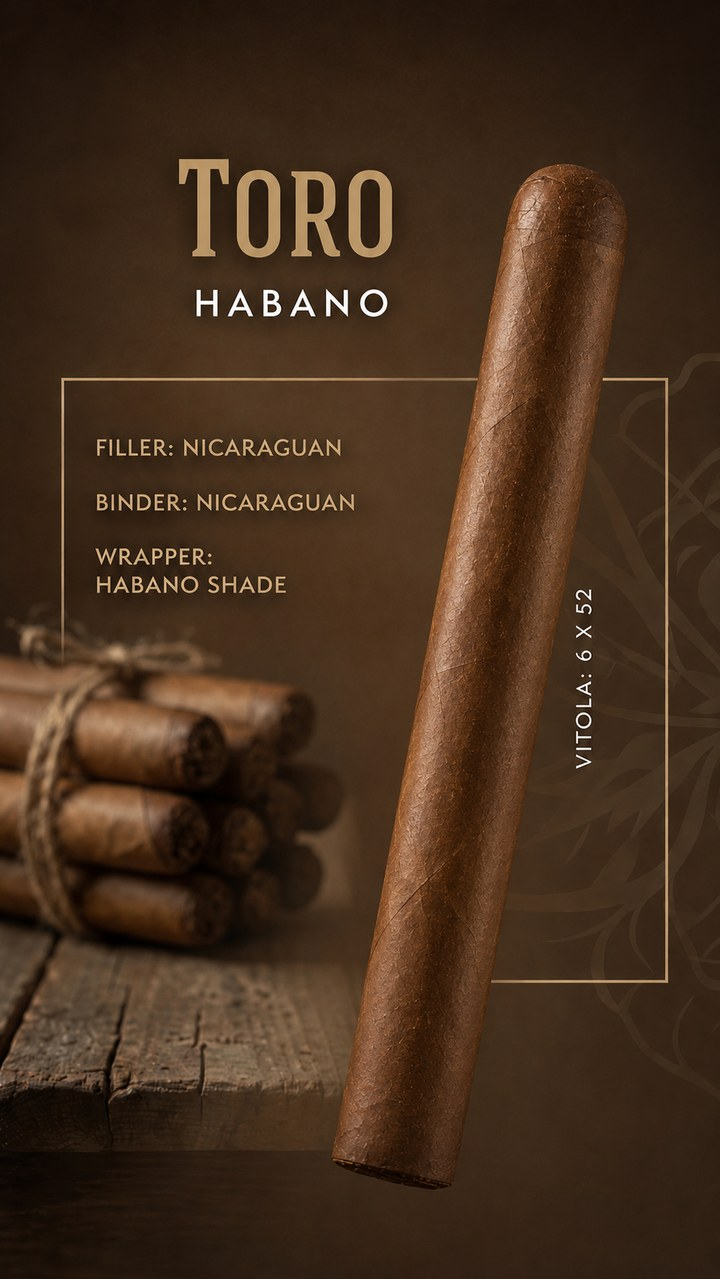
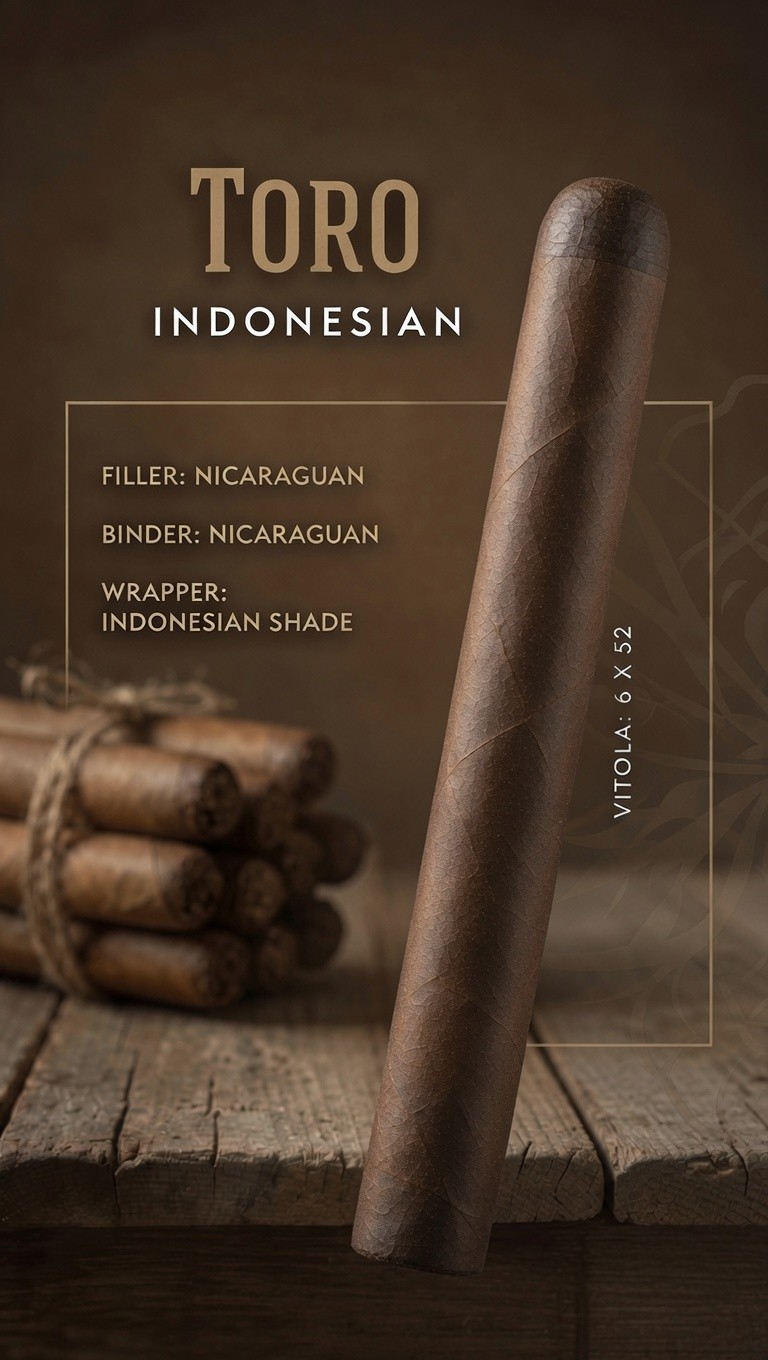
feat: replace 52 Regular artwork with final Toro Indonesian photos
Swaps in the client-supplied spec card and banded-bundle photos, which
now correctly read "TORO INDONESIAN" with an Indonesian Shade wrapper
and 6 x 52 vitola, matching the product's actual name and specs.
Corrected the Length spec from 6.5" back to 6" to match the artwork.

diff --git a/product/toro-habano/index.html b/product/toro-habano/index.html
@@ -30,9 +30,9 @@
   <meta name="twitter:description" content="52 Regular, hand-rolled Nicaraguan cigar with a rich Indonesian wrapper, made in Esteli, Nicaragua by Pita Cigars." />
   <meta name="twitter:image" content="https://jroddvlpr.github.io/Claude_Testing/assets/images/premium-toro-habano.jpg" />
 
-  <link rel="stylesheet" href="../../css/reset.css?v=20260704f" />
-  <link rel="stylesheet" href="../../css/tokens.css?v=20260704f" />
-  <link rel="stylesheet" href="../../css/main.css?v=20260704f" />
+  <link rel="stylesheet" href="../../css/reset.css?v=20260704g" />
+  <link rel="stylesheet" href="../../css/tokens.css?v=20260704g" />
+  <link rel="stylesheet" href="../../css/main.css?v=20260704g" />
 </head>
 <body>
 
@@ -134,8 +134,8 @@
             <div class="pdp-slider" aria-roledescription="carousel" aria-label="52 Regular photos">
               <div class="pdp-slider__viewport">
                 <div class="pdp-slider__track">
-                  <img src="../../assets/images/premium-toro-habano.jpg" alt="52 Regular spec card: Nicaraguan filler and binder, Indonesian wrapper, vitola 6.5 x 52" class="pdp-slider__slide" width="720" height="1279" fetchpriority="high" />
-                  <img src="../../assets/images/premium-toro-habano-lifestyle.jpg" alt="52 Regular bundle banded 6.5 x 52, with a single cigar standing forward" class="pdp-slider__slide" loading="lazy" width="1023" height="1364" />
+                  <img src="../../assets/images/premium-toro-habano.jpg" alt="52 Regular spec card: Nicaraguan filler and binder, Indonesian Shade wrapper, vitola 6 x 52" class="pdp-slider__slide" width="768" height="1360" fetchpriority="high" />
+                  <img src="../../assets/images/premium-toro-habano-lifestyle.jpg" alt="52 Regular bundle banded 6 x 52, with a single cigar standing forward" class="pdp-slider__slide" loading="lazy" width="832" height="1248" />
                 </div>
               </div>
               <div class="pdp-slider__controls">
@@ -185,7 +185,7 @@
             </div>
             <div class="spec">
               <span class="spec__label">Length</span>
-              <span class="spec__value">6.5"</span>
+              <span class="spec__value">6"</span>
             </div>
             <div class="spec">
               <span class="spec__label">Ring Gauge</span>
@@ -342,6 +342,6 @@
     </div>
   </footer>
 
-  <script src="../../js/main.js?v=20260704f" defer></script>
+  <script src="../../js/main.js?v=20260704g" defer></script>
 </body>
 </html>

diff --git a/about/index.html b/about/index.html
@@ -30,9 +30,9 @@
   <meta name="twitter:description" content="The family story behind Pita Cigars, hand-rolled in Miami since 1968." />
   <meta name="twitter:image" content="https://jroddvlpr.github.io/Claude_Testing/assets/images/founder.jpg" />
 
-  <link rel="stylesheet" href="../css/reset.css?v=20260704f" />
-  <link rel="stylesheet" href="../css/tokens.css?v=20260704f" />
-  <link rel="stylesheet" href="../css/main.css?v=20260704f" />
+  <link rel="stylesheet" href="../css/reset.css?v=20260704g" />
+  <link rel="stylesheet" href="../css/tokens.css?v=20260704g" />
+  <link rel="stylesheet" href="../css/main.css?v=20260704g" />
 </head>
 <body>
 
@@ -231,6 +231,6 @@
     </div>
   </footer>
 
-  <script src="../js/main.js?v=20260704f" defer></script>
+  <script src="../js/main.js?v=20260704g" defer></script>
 </body>
 </html>

diff --git a/bundles/index.html b/bundles/index.html
@@ -30,9 +30,9 @@
   <meta name="twitter:description" content="Pita Cigars' traditional short-filler bundles: Babies, Small Fumas, and Gigantes Fumas." />
   <meta name="twitter:image" content="https://jroddvlpr.github.io/Claude_Testing/assets/images/bundle-gigantes.jpg" />
 
-  <link rel="stylesheet" href="../css/reset.css?v=20260704f" />
-  <link rel="stylesheet" href="../css/tokens.css?v=20260704f" />
-  <link rel="stylesheet" href="../css/main.css?v=20260704f" />
+  <link rel="stylesheet" href="../css/reset.css?v=20260704g" />
+  <link rel="stylesheet" href="../css/tokens.css?v=20260704g" />
+  <link rel="stylesheet" href="../css/main.css?v=20260704g" />
 </head>
 <body>
 
@@ -262,6 +262,6 @@
     </div>
   </footer>
 
-  <script src="../js/main.js?v=20260704f" defer></script>
+  <script src="../js/main.js?v=20260704g" defer></script>
 </body>
 </html>

diff --git a/contact/index.html b/contact/index.html
@@ -30,9 +30,9 @@
   <meta name="twitter:description" content="Get in touch with Pita Cigars: visit our Miami factory or send us a message." />
   <meta name="twitter:image" content="https://jroddvlpr.github.io/Claude_Testing/assets/images/hero.jpg" />
 
-  <link rel="stylesheet" href="../css/reset.css?v=20260704f" />
-  <link rel="stylesheet" href="../css/tokens.css?v=20260704f" />
-  <link rel="stylesheet" href="../css/main.css?v=20260704f" />
+  <link rel="stylesheet" href="../css/reset.css?v=20260704g" />
+  <link rel="stylesheet" href="../css/tokens.css?v=20260704g" />
+  <link rel="stylesheet" href="../css/main.css?v=20260704g" />
 </head>
 <body>
 
@@ -216,6 +216,6 @@
     </div>
   </footer>
 
-  <script src="../js/main.js?v=20260704f" defer></script>
+  <script src="../js/main.js?v=20260704g" defer></script>
 </body>
 </html>

diff --git a/index.html b/index.html
@@ -66,9 +66,9 @@
   }
   </script>
 
-  <link rel="stylesheet" href="css/reset.css?v=20260704f" />
-  <link rel="stylesheet" href="css/tokens.css?v=20260704f" />
-  <link rel="stylesheet" href="css/main.css?v=20260704f" />
+  <link rel="stylesheet" href="css/reset.css?v=20260704g" />
+  <link rel="stylesheet" href="css/tokens.css?v=20260704g" />
+  <link rel="stylesheet" href="css/main.css?v=20260704g" />
 </head>
 <body>
 
@@ -588,6 +588,6 @@
     </div>
   </footer>
 
-  <script src="js/main.js?v=20260704f" defer></script>
+  <script src="js/main.js?v=20260704g" defer></script>
 </body>
 </html>

diff --git a/premium-cigars/index.html b/premium-cigars/index.html
@@ -30,9 +30,9 @@
   <meta name="twitter:description" content="Pita Cigars' premium hand-rolled Nicaraguan cigar collection: Torpedo Habano, Torpedo Connecticut, Robusto Sumatra, Robusto Indonesian, Churchill Sumatra, Churchill Oscuro, and 52 Regular." />
   <meta name="twitter:image" content="https://jroddvlpr.github.io/Claude_Testing/assets/images/premium-torpedo-habano.jpg" />
 
-  <link rel="stylesheet" href="../css/reset.css?v=20260704f" />
-  <link rel="stylesheet" href="../css/tokens.css?v=20260704f" />
-  <link rel="stylesheet" href="../css/main.css?v=20260704f" />
+  <link rel="stylesheet" href="../css/reset.css?v=20260704g" />
+  <link rel="stylesheet" href="../css/tokens.css?v=20260704g" />
+  <link rel="stylesheet" href="../css/main.css?v=20260704g" />
 </head>
 <body>
 
@@ -397,6 +397,6 @@
     </div>
   </footer>
 
-  <script src="../js/main.js?v=20260704f" defer></script>
+  <script src="../js/main.js?v=20260704g" defer></script>
 </body>
 </html>

diff --git a/product/churchill-indonesian/index.html b/product/churchill-indonesian/index.html
@@ -30,9 +30,9 @@
   <meta name="twitter:description" content="Churchill Oscuro, hand-rolled Nicaraguan churchill with a dark Indonesian wrapper, made in Esteli, Nicaragua by Pita Cigars." />
   <meta name="twitter:image" content="https://jroddvlpr.github.io/Claude_Testing/assets/images/premium-churchill-indonesian.jpg" />
 
-  <link rel="stylesheet" href="../../css/reset.css?v=20260704f" />
-  <link rel="stylesheet" href="../../css/tokens.css?v=20260704f" />
-  <link rel="stylesheet" href="../../css/main.css?v=20260704f" />
+  <link rel="stylesheet" href="../../css/reset.css?v=20260704g" />
+  <link rel="stylesheet" href="../../css/tokens.css?v=20260704g" />
+  <link rel="stylesheet" href="../../css/main.css?v=20260704g" />
 </head>
 <body>
 
@@ -342,6 +342,6 @@
     </div>
   </footer>
 
-  <script src="../../js/main.js?v=20260704f" defer></script>
+  <script src="../../js/main.js?v=20260704g" defer></script>
 </body>
 </html>

diff --git a/product/churchill-sumatra/index.html b/product/churchill-sumatra/index.html
@@ -30,9 +30,9 @@
   <meta name="twitter:description" content="Churchill Sumatra, hand-rolled Nicaraguan churchill with a Sumatra-shade wrapper, made in Esteli, Nicaragua by Pita Cigars." />
   <meta name="twitter:image" content="https://jroddvlpr.github.io/Claude_Testing/assets/images/premium-churchill-sumatra.jpg" />
 
-  <link rel="stylesheet" href="../../css/reset.css?v=20260704f" />
-  <link rel="stylesheet" href="../../css/tokens.css?v=20260704f" />
-  <link rel="stylesheet" href="../../css/main.css?v=20260704f" />
+  <link rel="stylesheet" href="../../css/reset.css?v=20260704g" />
+  <link rel="stylesheet" href="../../css/tokens.css?v=20260704g" />
+  <link rel="stylesheet" href="../../css/main.css?v=20260704g" />
 </head>
 <body>
 
@@ -342,6 +342,6 @@
     </div>
   </footer>
 
-  <script src="../../js/main.js?v=20260704f" defer></script>
+  <script src="../../js/main.js?v=20260704g" defer></script>
 </body>
 </html>

diff --git a/product/robusto-indonesian/index.html b/product/robusto-indonesian/index.html
@@ -30,9 +30,9 @@
   <meta name="twitter:description" content="Robusto Indonesian, hand-rolled Nicaraguan robusto with a dark Indonesian wrapper, made in Esteli, Nicaragua by Pita Cigars." />
   <meta name="twitter:image" content="https://jroddvlpr.github.io/Claude_Testing/assets/images/premium-robusto-indonesian.jpg" />
 
-  <link rel="stylesheet" href="../../css/reset.css?v=20260704f" />
-  <link rel="stylesheet" href="../../css/tokens.css?v=20260704f" />
-  <link rel="stylesheet" href="../../css/main.css?v=20260704f" />
+  <link rel="stylesheet" href="../../css/reset.css?v=20260704g" />
+  <link rel="stylesheet" href="../../css/tokens.css?v=20260704g" />
+  <link rel="stylesheet" href="../../css/main.css?v=20260704g" />
 </head>
 <body>
 
@@ -342,6 +342,6 @@
     </div>
   </footer>
 
-  <script src="../../js/main.js?v=20260704f" defer></script>
+  <script src="../../js/main.js?v=20260704g" defer></script>
 </body>
 </html>

diff --git a/product/robusto-sumatra/index.html b/product/robusto-sumatra/index.html
@@ -30,9 +30,9 @@
   <meta name="twitter:description" content="Robusto Sumatra, hand-rolled Nicaraguan robusto with a Sumatra-shade wrapper, made in Esteli, Nicaragua by Pita Cigars." />
   <meta name="twitter:image" content="https://jroddvlpr.github.io/Claude_Testing/assets/images/premium-robusto-sumatra.jpg" />
 
-  <link rel="stylesheet" href="../../css/reset.css?v=20260704f" />
-  <link rel="stylesheet" href="../../css/tokens.css?v=20260704f" />
-  <link rel="stylesheet" href="../../css/main.css?v=20260704f" />
+  <link rel="stylesheet" href="../../css/reset.css?v=20260704g" />
+  <link rel="stylesheet" href="../../css/tokens.css?v=20260704g" />
+  <link rel="stylesheet" href="../../css/main.css?v=20260704g" />
 </head>
 <body>
 
@@ -342,6 +342,6 @@
     </div>
   </footer>
 
-  <script src="../../js/main.js?v=20260704f" defer></script>
+  <script src="../../js/main.js?v=20260704g" defer></script>
 </body>
 </html>

diff --git a/product/torpedo-connecticut/index.html b/product/torpedo-connecticut/index.html
@@ -30,9 +30,9 @@
   <meta name="twitter:description" content="Torpedo Connecticut, hand-rolled Nicaraguan Connecticut cigar, made in Esteli, Nicaragua by Pita Cigars." />
   <meta name="twitter:image" content="https://jroddvlpr.github.io/Claude_Testing/assets/images/premium-torpedo-connecticut.jpg" />
 
-  <link rel="stylesheet" href="../../css/reset.css?v=20260704f" />
-  <link rel="stylesheet" href="../../css/tokens.css?v=20260704f" />
-  <link rel="stylesheet" href="../../css/main.css?v=20260704f" />
+  <link rel="stylesheet" href="../../css/reset.css?v=20260704g" />
+  <link rel="stylesheet" href="../../css/tokens.css?v=20260704g" />
+  <link rel="stylesheet" href="../../css/main.css?v=20260704g" />
 </head>
 <body>
 
@@ -330,6 +330,6 @@
     </div>
   </footer>
 
-  <script src="../../js/main.js?v=20260704f" defer></script>
+  <script src="../../js/main.js?v=20260704g" defer></script>
 </body>
 </html>

diff --git a/product/torpedo-habano/index.html b/product/torpedo-habano/index.html
@@ -30,9 +30,9 @@
   <meta name="twitter:description" content="Torpedo Habano, hand-rolled Nicaraguan cigar with a Habano Shade wrapper, made in Esteli, Nicaragua by Pita Cigars." />
   <meta name="twitter:image" content="https://jroddvlpr.github.io/Claude_Testing/assets/images/premium-torpedo-habano.jpg" />
 
-  <link rel="stylesheet" href="../../css/reset.css?v=20260704f" />
-  <link rel="stylesheet" href="../../css/tokens.css?v=20260704f" />
-  <link rel="stylesheet" href="../../css/main.css?v=20260704f" />
+  <link rel="stylesheet" href="../../css/reset.css?v=20260704g" />
+  <link rel="stylesheet" href="../../css/tokens.css?v=20260704g" />
+  <link rel="stylesheet" href="../../css/main.css?v=20260704g" />
 </head>
 <body>
 
@@ -330,6 +330,6 @@
     </div>
   </footer>
 
-  <script src="../../js/main.js?v=20260704f" defer></script>
+  <script src="../../js/main.js?v=20260704g" defer></script>
 </body>
 </html>